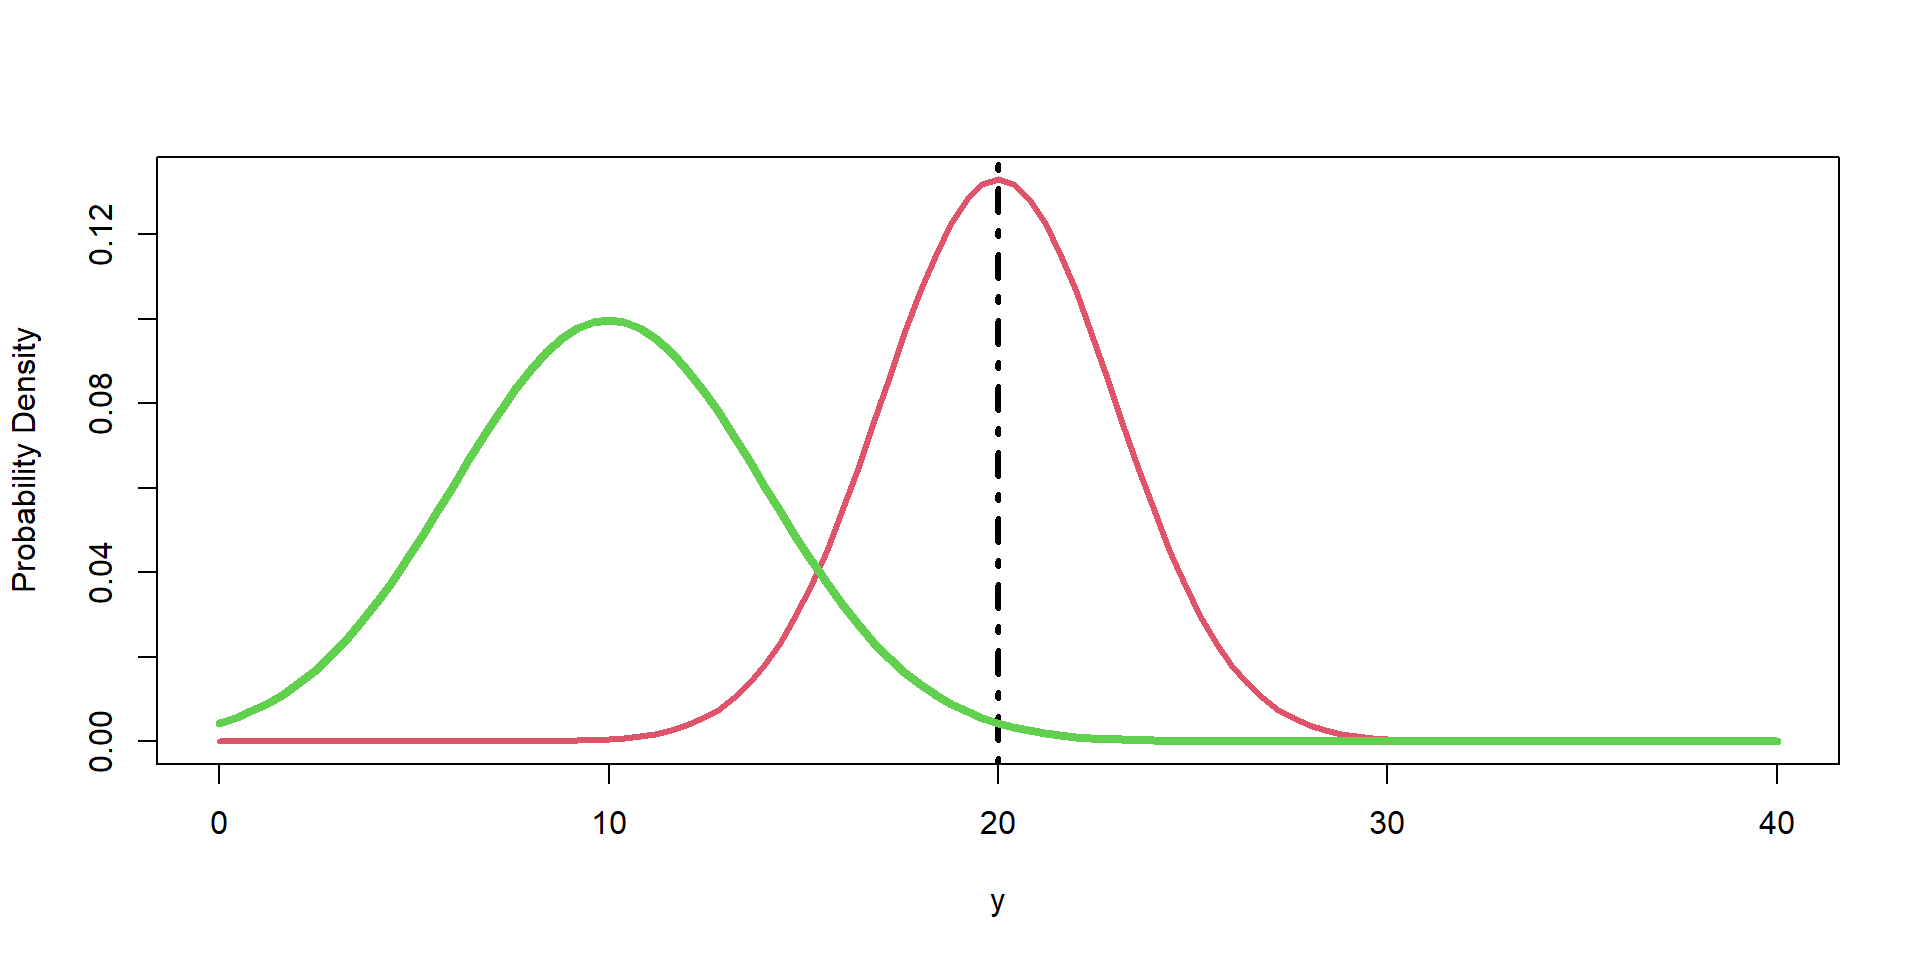
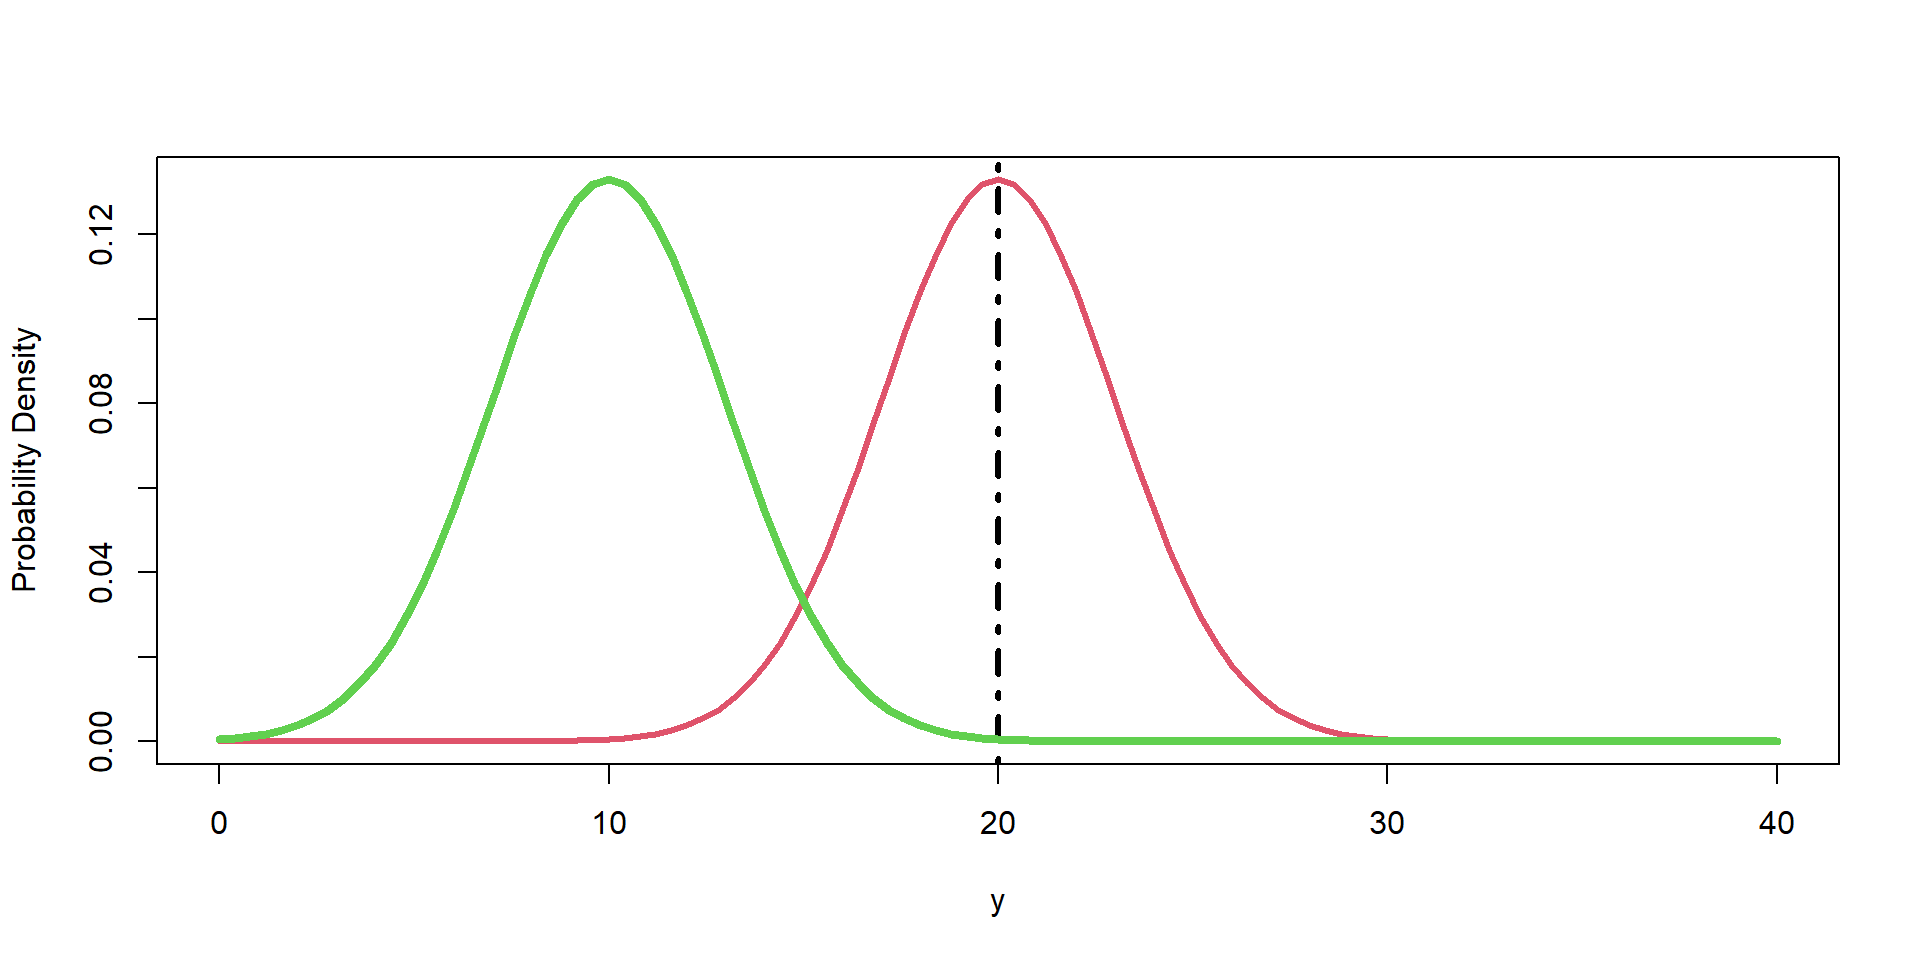
probability

Changed region(s): [[0.25, 0.25, 0.5938, 0.7812], [0.0938, 0.4688, 0.25, 0.7812], [0.2812, 0.1875, 0.3438, 0.2812]]

diff --git a/FW680A4/Probability-speaker.html b/FW680A4/Probability-speaker.html
@@ -399,12 +399,9 @@
 </div>
 
 </section>
-<section class="slide level2">
-
-<!-- knitr::purl("./FW680A4/probability.qmd", output="./FW680A4/probability.R") -->
-</section>
 <section id="objectives" class="slide level2">
 <h2>Objectives</h2>
+<!-- knitr::purl("./FW680A4/probability.qmd", output="./FW680A4/probability.R") -->
 <ul>
 <li><p>Connect random variables, probabilities, and parameters</p></li>
 <li><p>define prob. functions</p>
@@ -997,7 +994,7 @@ f(y|\mu,\sigma ) = \frac{1}{\sigma\sqrt{2\pi}}e^{\frac{1}{2}(\frac{y-\mu}{\sigma
 \]</span></p>
 </div>
 <div class="fragment">
-<p>Read this as “the integral of the probability density function between 100 and infinity (on the left-hand side) is equal to the probability that the outcome of the random variable is between 100 and infinity (on the right-hand side)”.</p>
+<p>Read this as “the integral of the probability density function between 120 and infinity (on the left-hand side) is equal to the probability that the outcome of the random variable is between 120 and infinity (on the right-hand side)”.</p>
 </div>
 <p><br></p>
 <div class="fragment">
@@ -1077,7 +1074,7 @@ f(y|\mu,\sigma ) = \frac{1}{\sigma\sqrt{2\pi}}e^{\frac{1}{2}(\frac{y-\mu}{\sigma
 <section id="normal-distribution-pdf-code-2" class="slide level2">
 <h2>Normal Distribution (PDF Code)</h2>
 <div class="cell">
-<div class="sourceCode cell-code" id="cb25"><pre class="sourceCode numberSource r number-lines code-with-copy"><code class="sourceCode r"><span id="cb25-1"><a></a><span class="fu">curve</span>(<span class="fu">dnorm</span>(x, <span class="at">mean =</span> <span class="dv">10</span>, <span class="at">sd =</span> <span class="dv">4</span>),<span class="at">xlim=</span><span class="fu">c</span>(<span class="dv">0</span>,<span class="dv">40</span>),<span class="at">lwd=</span><span class="dv">4</span>,<span class="at">col=</span><span class="dv">3</span>,<span class="at">add=</span><span class="cn">TRUE</span>)</span></code><button title="Copy to Clipboard" class="code-copy-button"><i class="bi"></i></button></pre></div>
+<div class="sourceCode cell-code" id="cb25"><pre class="sourceCode numberSource r number-lines code-with-copy"><code class="sourceCode r"><span id="cb25-1"><a></a><span class="fu">curve</span>(<span class="fu">dnorm</span>(x, <span class="at">mean =</span> <span class="dv">10</span>, <span class="at">sd =</span> <span class="dv">3</span>),<span class="at">xlim=</span><span class="fu">c</span>(<span class="dv">0</span>,<span class="dv">40</span>),<span class="at">lwd=</span><span class="dv">4</span>,<span class="at">col=</span><span class="dv">3</span>,<span class="at">add=</span><span class="cn">TRUE</span>)</span></code><button title="Copy to Clipboard" class="code-copy-button"><i class="bi"></i></button></pre></div>
 </div>
 
 <img data-src="Probability_files/figure-revealjs/pdf2b-1.png" width="960" class="r-stretch"></section>
@@ -1117,7 +1114,7 @@ f(y|\mu,\sigma ) = \frac{1}{\sigma\sqrt{2\pi}}e^{\frac{1}{2}(\frac{y-\mu}{\sigma
 <h2>Gamma Distribution</h2>
 <p><span style="color:red">Probability</span>: Interested in the variation of y, <span class="math display">\[
 \begin{align*}
-y \leftarrow&amp; f(y|\boldsymbol{\theta}) \\
+y \leftarrow&amp; f(y|\boldsymbol{\theta'}) \\
 \end{align*}
 \]</span></p>
 <div class="fragment">

diff --git a/docs/FW680A4/Probability.html b/docs/FW680A4/Probability.html
@@ -399,12 +399,9 @@
 </div>
 
 </section>
-<section class="slide level2">
-
-<!-- knitr::purl("./FW680A4/probability.qmd", output="./FW680A4/probability.R") -->
-</section>
 <section id="objectives" class="slide level2">
 <h2>Objectives</h2>
+<!-- knitr::purl("./FW680A4/probability.qmd", output="./FW680A4/probability.R") -->
 <ul>
 <li><p>Connect random variables, probabilities, and parameters</p></li>
 <li><p>define prob. functions</p>
@@ -997,7 +994,7 @@ f(y|\mu,\sigma ) = \frac{1}{\sigma\sqrt{2\pi}}e^{\frac{1}{2}(\frac{y-\mu}{\sigma
 \]</span></p>
 </div>
 <div class="fragment">
-<p>Read this as “the integral of the probability density function between 100 and infinity (on the left-hand side) is equal to the probability that the outcome of the random variable is between 100 and infinity (on the right-hand side)”.</p>
+<p>Read this as “the integral of the probability density function between 120 and infinity (on the left-hand side) is equal to the probability that the outcome of the random variable is between 120 and infinity (on the right-hand side)”.</p>
 </div>
 <p><br></p>
 <div class="fragment">
@@ -1077,7 +1074,7 @@ f(y|\mu,\sigma ) = \frac{1}{\sigma\sqrt{2\pi}}e^{\frac{1}{2}(\frac{y-\mu}{\sigma
 <section id="normal-distribution-pdf-code-2" class="slide level2">
 <h2>Normal Distribution (PDF Code)</h2>
 <div class="cell">
-<div class="sourceCode cell-code" id="cb25"><pre class="sourceCode numberSource r number-lines code-with-copy"><code class="sourceCode r"><span id="cb25-1"><a></a><span class="fu">curve</span>(<span class="fu">dnorm</span>(x, <span class="at">mean =</span> <span class="dv">10</span>, <span class="at">sd =</span> <span class="dv">4</span>),<span class="at">xlim=</span><span class="fu">c</span>(<span class="dv">0</span>,<span class="dv">40</span>),<span class="at">lwd=</span><span class="dv">4</span>,<span class="at">col=</span><span class="dv">3</span>,<span class="at">add=</span><span class="cn">TRUE</span>)</span></code><button title="Copy to Clipboard" class="code-copy-button"><i class="bi"></i></button></pre></div>
+<div class="sourceCode cell-code" id="cb25"><pre class="sourceCode numberSource r number-lines code-with-copy"><code class="sourceCode r"><span id="cb25-1"><a></a><span class="fu">curve</span>(<span class="fu">dnorm</span>(x, <span class="at">mean =</span> <span class="dv">10</span>, <span class="at">sd =</span> <span class="dv">3</span>),<span class="at">xlim=</span><span class="fu">c</span>(<span class="dv">0</span>,<span class="dv">40</span>),<span class="at">lwd=</span><span class="dv">4</span>,<span class="at">col=</span><span class="dv">3</span>,<span class="at">add=</span><span class="cn">TRUE</span>)</span></code><button title="Copy to Clipboard" class="code-copy-button"><i class="bi"></i></button></pre></div>
 </div>
 
 <img data-src="Probability_files/figure-revealjs/pdf2b-1.png" width="960" class="r-stretch"></section>
@@ -1117,7 +1114,7 @@ f(y|\mu,\sigma ) = \frac{1}{\sigma\sqrt{2\pi}}e^{\frac{1}{2}(\frac{y-\mu}{\sigma
 <h2>Gamma Distribution</h2>
 <p><span style="color:red">Probability</span>: Interested in the variation of y, <span class="math display">\[
 \begin{align*}
-y \leftarrow&amp; f(y|\boldsymbol{\theta}) \\
+y \leftarrow&amp; f(y|\boldsymbol{\theta'}) \\
 \end{align*}
 \]</span></p>
 <div class="fragment">
